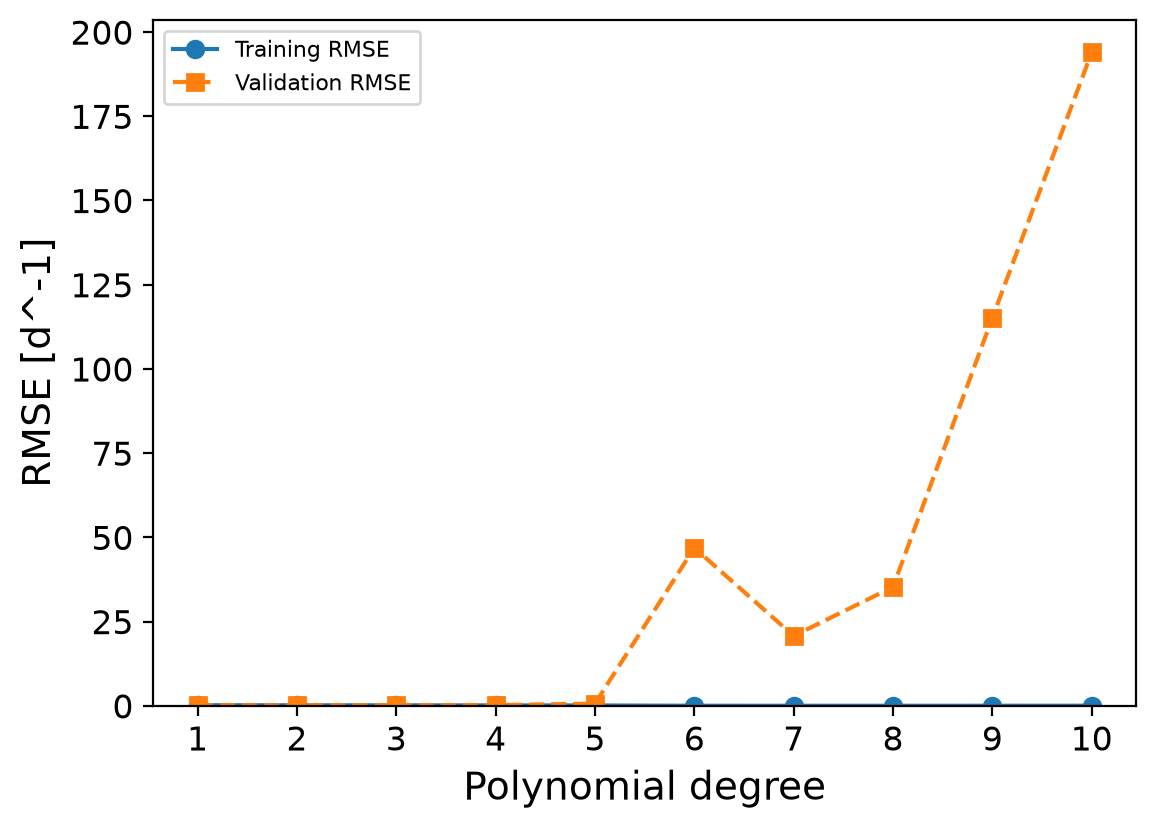
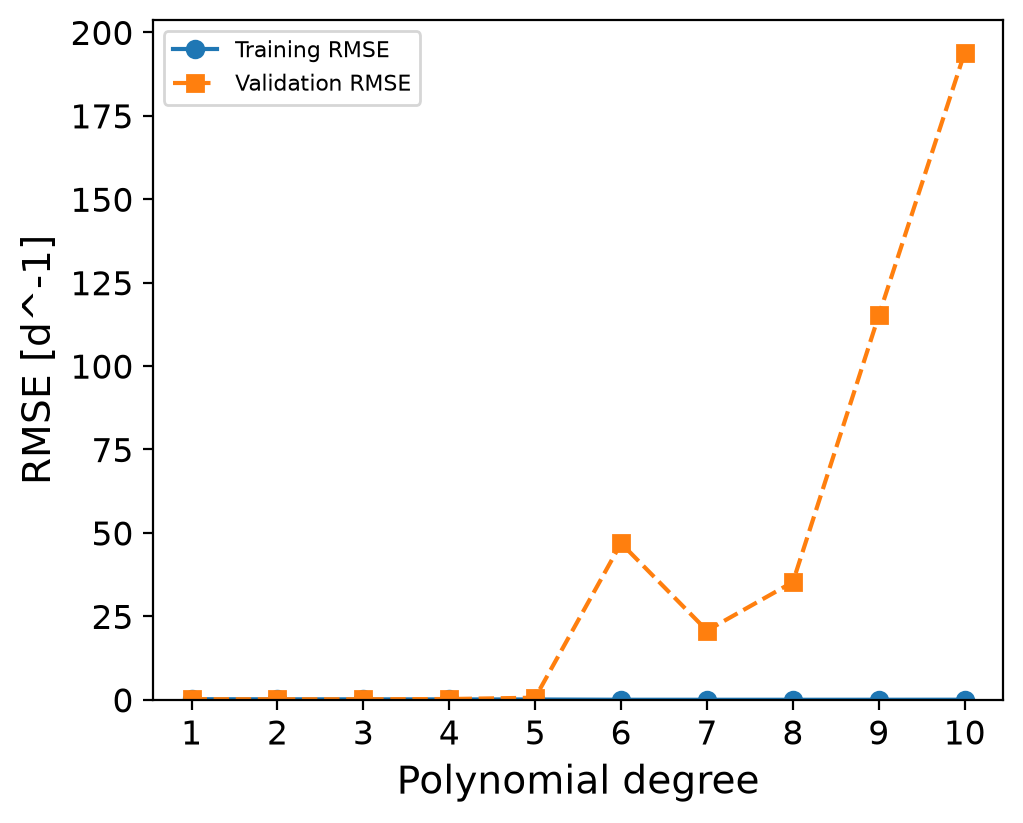
message

diff --git a/src/classes.py b/src/classes.py
@@ -89,8 +89,8 @@ class CellGrowthModel:
             random_state=0
         )
 
-        self.fig_width = 14.39 / 2.54
-        self.fig_height = 10.24 / 2.54
+        self.fig_width = 10 / 2
+        self.fig_height = 8 / 2
         self.fontsize_xy_label = 14
         self.fontsize_ticks = 12
         self.fontsize_legend = 8

diff --git a/README.md b/README.md
@@ -71,7 +71,7 @@ Another argument could be made that the 3rd-degree polynomial model should be us
 ### Cell Culture Conditions and Model Applications
 After deriving our model we were able to obtain a standardized linearize equation for how the parameters of temperature, pH, lactate concentration, and glucose concentration effect as on cell growth:
 
-$ 0.347063-0.018173 * Temperature-0.012609 * pH +0.028030 * Glucose -0.060859 * Lactate -0.021197 * Temperature^2 -0.019513 * Temperature * pH -0.007723 * Temperature * Glucose -0.008984 * Temperature * Lactate -0.061245 * pH^2 -0.004112 * pH * Glucose +0.003993 * pH * Lactate +0.000261 * Glucose^2 -0.022226 * Glucose * Lactate + 0.015562 * Lactate^2 $
+$$ 0.347063-0.018173 * Temperature-0.012609 * pH +0.028030 * Glucose -0.060859 * Lactate -0.021197 * Temperature^2 -0.019513 * Temperature * pH -0.007723 * Temperature * Glucose -0.008984 * Temperature * Lactate -0.061245 * pH^2 -0.004112 * pH * Glucose +0.003993 * pH * Lactate +0.000261 * Glucose^2 -0.022226 * Glucose * Lactate + 0.015562 * Lactate^2 $$
 
 The standardized polynomial model predicts a baseline specific growth rate of approximately 0.3471 [d^-1]. The coefficients indicate that lactate has a strong negative linear effect, while pH has a strong nonlinear effect. Temperature has weaker negative linear and nonlinear effects, although its influence may depend on other culture conditions. Glucose has a positive linear effect, suggesting it may support growth, but its negative interaction with lactate indicates that this benefit may depend on lactate concentration. This interaction is expected because glucose and lactate are linked through cellular metabolism, as glucose supports energy production and growth while lactate can accumulate as a metabolic byproduct.
 
